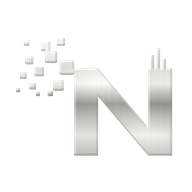
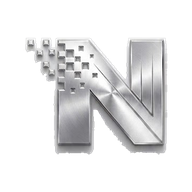
Add files via upload
v3 - fixed color pallette, logo, words

diff --git a/page.tsx b/page.tsx
@@ -1,0 +1,237 @@
+import Link from "next/link";
+import { ArrowRight, ArrowUpRight, Quote } from "lucide-react";
+import Marquee from "./components/Marquee";
+import Reveal from "./components/Reveal";
+import SectionHeading from "./components/SectionHeading";
+import { services, projects, processSteps, stats, capabilities } from "./lib/data";
+
+export default function HomePage() {
+  return (
+    <>
+      {/* ---------------- HERO ---------------- */}
+      <section className="relative overflow-hidden">
+        <div
+          aria-hidden
+          className="pointer-events-none absolute left-1/2 top-[-30%] h-[720px] w-[900px] -translate-x-1/2 rounded-full bg-electric-500/10 blur-[140px]"
+        />
+        <div className="shell relative py-28 md:py-36">
+          <Reveal>
+            <div className="eyebrow text-silver-200">
+              <span className="h-px w-9 bg-electric-500" />
+              Chicago · Built for the Automotive Trade
+            </div>
+          </Reveal>
+
+          <Reveal delay={0.08}>
+            <h1 className="mt-7 max-w-[18ch] text-display-xl font-bold leading-[1.02] tracking-tight text-gradient md:max-w-[22ch]">
+              Growth Systems for your Automotive business
+            </h1>
+          </Reveal>
+
+          <Reveal delay={0.16}>
+            <p className="mt-8 max-w-[54ch] text-[17px] leading-relaxed text-silver-400">
+              We build the websites, AI assistants, and follow-up systems that make sure your
+              automotive business never loses another customer.
+            </p>
+          </Reveal>
+
+          <Reveal delay={0.24}>
+            <div className="mt-11 flex flex-wrap gap-4">
+              <Link href="/book" className="btn-primary">
+                Book a call <ArrowRight size={15} />
+              </Link>
+              <Link href="/services" className="btn-secondary">
+                View services
+              </Link>
+            </div>
+          </Reveal>
+        </div>
+      </section>
+
+      <Marquee items={capabilities} />
+
+      {/* ---------------- STATS ---------------- */}
+      <section className="shell py-24 md:py-28">
+        <Reveal>
+          <SectionHeading
+            eyebrow="What we do"
+            title="Businesses don't have a marketing problem, they have a response problem."
+            lede="A missed call is a customer dialing the next shop on the list. We build the systems that answer, capture, and follow up automatically — so you keep the work you've already earned."
+          />
+        </Reveal>
+
+        <div className="mt-16 grid grid-cols-2 gap-px border border-white/10 bg-white/10 lg:grid-cols-4">
+          {stats.map((stat, i) => (
+            <Reveal key={stat.label} delay={i * 0.06}>
+              <div className="h-full bg-navy-900 p-8">
+                <div className="text-[36px] font-bold leading-none tracking-tight text-white">
+                  {stat.value}
+                </div>
+                <div className="mt-3 text-[12px] uppercase tracking-[0.16em] text-silver-500">
+                  {stat.label}
+                </div>
+              </div>
+            </Reveal>
+          ))}
+        </div>
+      </section>
+
+      {/* ---------------- SERVICES SUMMARY ---------------- */}
+      <section className="border-y border-white/10 bg-navy-950/50 py-24 md:py-28">
+        <div className="shell">
+          <Reveal>
+            <SectionHeading
+              eyebrow="Services"
+              title="We capture every opportunity"
+              link={{ href: "/services", label: "View all services" }}
+            />
+          </Reveal>
+
+          <div className="mt-14 grid gap-px bg-white/10 sm:grid-cols-2 lg:grid-cols-3">
+            {services.slice(0, 6).map((service, i) => {
+              const Icon = service.icon;
+              return (
+                <Reveal key={service.slug} delay={i * 0.05}>
+                  <Link
+                    href={`/services/${service.slug}`}
+                    className="group flex h-full flex-col bg-navy-900 p-8 transition-colors hover:bg-navy-800"
+                  >
+                    <Icon size={22} className="text-electric-500" />
+                    <h3 className="mt-6 text-[19px] font-semibold text-white">{service.title}</h3>
+                    <p className="mt-3 flex-1 text-[14.5px] leading-relaxed text-silver-500">
+                      {service.short}
+                    </p>
+                    <span className="mt-6 inline-flex items-center gap-2 text-[12px] uppercase tracking-[0.14em] text-silver-400 transition-colors group-hover:text-electric-400">
+                      Learn more <ArrowUpRight size={14} />
+                    </span>
+                  </Link>
+                </Reveal>
+              );
+            })}
+          </div>
+        </div>
+      </section>
+
+      {/* ---------------- PROCESS ---------------- */}
+      <section className="shell py-24 md:py-28">
+        <Reveal>
+          <SectionHeading
+            eyebrow="The approach"
+            title="Audit first. Build second."
+            lede="Every engagement starts with a free audit — we pinpoint exactly where your shop is losing customers before we build a thing. No guesswork, no wasted spend."
+          />
+        </Reveal>
+
+        <div className="mt-14 grid gap-px border border-white/10 bg-white/10 md:grid-cols-2 lg:grid-cols-4">
+          {processSteps.map((step, i) => (
+            <Reveal key={step.n} delay={i * 0.06}>
+              <div className="h-full bg-navy-900 p-8">
+                <div className="text-[12px] tracking-[0.2em] text-electric-500">{step.n}</div>
+                <h3 className="mt-5 text-[18px] font-semibold text-white">{step.title}</h3>
+                <p className="mt-3 text-[14px] leading-relaxed text-silver-500">{step.body}</p>
+              </div>
+            </Reveal>
+          ))}
+        </div>
+      </section>
+
+      {/* ---------------- SELECTED WORK ---------------- */}
+      <section className="border-y border-white/10 bg-navy-950/50 py-24 md:py-28">
+        <div className="shell">
+          <Reveal>
+            <SectionHeading
+              eyebrow="Selected work"
+              title="Concepts, live and working"
+              lede="Working systems on real automotive businesses, built before we ever pitch."
+              link={{ href: "/work", label: "View all work" }}
+            />
+          </Reveal>
+
+          <div className="mt-14 grid gap-6 md:grid-cols-2 lg:grid-cols-3">
+            {projects.map((project, i) => (
+              <Reveal key={project.slug} delay={i * 0.07}>
+                <Link
+                  href={`/work/${project.slug}`}
+                  className="card card-hover group flex h-full flex-col p-8"
+                >
+                  <div className="flex items-center justify-between text-[11px] uppercase tracking-[0.18em] text-silver-500">
+                    <span>{project.industry}</span>
+                    <span className="text-electric-500">{project.status}</span>
+                  </div>
+                  <h3 className="mt-4 text-[23px] font-semibold tracking-tight text-white">
+                    {project.client}
+                  </h3>
+                  <p className="mt-3 flex-1 text-[14.5px] leading-relaxed text-silver-500">
+                    {project.summary}
+                  </p>
+                  <div className="mt-6 flex flex-wrap gap-2">
+                    {project.tags.map((tag) => (
+                      <span
+                        key={tag}
+                        className="border border-white/10 px-3 py-1.5 text-[11px] tracking-wide text-silver-500"
+                      >
+                        {tag}
+                      </span>
+                    ))}
+                  </div>
+                </Link>
+              </Reveal>
+            ))}
+          </div>
+        </div>
+      </section>
+
+      {/* ---------------- TESTIMONIAL ---------------- */}
+      <section className="shell py-24 md:py-28">
+        <Reveal>
+          <div className="eyebrow">
+            <span className="h-px w-8 bg-electric-500" />
+            What clients say
+          </div>
+          <div className="mt-10 border-l border-electric-500/50 pl-8 md:pl-10">
+            <Quote size={28} className="mb-6 text-electric-500/60" />
+            <blockquote className="max-w-[24ch] text-display-sm font-medium leading-tight text-white md:max-w-[30ch]">
+              Your first real client quote goes here — one sentence about what changed for their
+              business after the build.
+            </blockquote>
+            <div className="mt-8 text-[13.5px] text-silver-500">
+              <strong className="block font-semibold text-silver-300">Client Name</strong>
+              Owner, Business Name
+            </div>
+          </div>
+          <p className="mt-8 max-w-[70ch] border border-dashed border-white/15 p-4 text-[12.5px] leading-relaxed text-silver-500">
+            Placeholder — replace once your first client is live. Leaving this generic is better than
+            inventing a quote; a fabricated testimonial is the fastest way to lose a deal when someone
+            follows up on it.
+          </p>
+        </Reveal>
+      </section>
+
+      {/* ---------------- CTA ---------------- */}
+      <section className="border-t border-white/10 bg-navy-950">
+        <div className="shell py-28 text-center md:py-32">
+          <Reveal>
+            <div className="eyebrow justify-center">Start the conversation</div>
+            <h2 className="mx-auto mt-6 max-w-[16ch] text-display-lg font-bold text-white">
+              Let&apos;s build the future.
+            </h2>
+            <p className="mx-auto mt-6 max-w-[56ch] text-[16px] leading-relaxed text-silver-500">
+              We&apos;ll walk through your setup, show you where customers are slipping away, and give
+              you no-nonsense feedback. Free, no-pressure audit.
+            </p>
+            <div className="mt-10 flex flex-wrap justify-center gap-4">
+              <Link href="/book" className="btn-primary">
+                Book a call <ArrowRight size={15} />
+              </Link>
+              <Link href="/pricing" className="btn-secondary">
+                See pricing
+              </Link>
+            </div>
+          </Reveal>
+        </div>
+      </section>
+
+      <Marquee items={capabilities} reverse />
+    </>
+  );
+}

diff --git a/layout.tsx b/layout.tsx
@@ -1,0 +1,52 @@
+import type { Metadata } from "next";
+import { Space_Grotesk } from "next/font/google";
+import "./globals.css";
+import Navbar from "./components/Navbar";
+import Footer from "./components/Footer";
+import PageWrapper from "./components/PageWrapper";
+import ChatWidget from "./components/ChatWidget";
+
+const spaceGrotesk = Space_Grotesk({
+  subsets: ["latin"],
+  variable: "--font-space-grotesk",
+  display: "swap",
+});
+
+export const metadata: Metadata = {
+  metadataBase: new URL("https://novussolutions.co"),
+  title: {
+    default: "Novus Solutions | AI Automation & Growth Systems for Automotive Businesses",
+    template: "%s | Novus Solutions",
+  },
+  description:
+    "Novus builds websites, AI chatbots, phone assistants, and follow-up systems for local Chicago businesses. Never miss another customer. Book a call.",
+  keywords: [
+    "AI automation Chicago",
+    "automotive business AI",
+    "AI chatbot",
+    "AI phone assistant",
+    "website development Chicago",
+  ],
+  openGraph: {
+    title: "Novus Solutions | AI Automation for Automotive Businesses",
+    description:
+      "Websites, AI assistants, and follow-up systems for Chicago automotive business. Book a call.",
+    url: "https://novussolutions.co",
+    siteName: "Novus Solutions",
+    type: "website",
+  },
+  robots: { index: true, follow: true },
+};
+
+export default function RootLayout({ children }: { children: React.ReactNode }) {
+  return (
+    <html lang="en" className={spaceGrotesk.variable}>
+      <body className="bg-navy-900 font-sans">
+        <Navbar />
+        <PageWrapper>{children}</PageWrapper>
+        <Footer />
+        <ChatWidget />
+      </body>
+    </html>
+  );
+}

diff --git a/globals.css b/globals.css
@@ -1,0 +1,69 @@
+@tailwind base;
+@tailwind components;
+@tailwind utilities;
+
+@layer base {
+  html {
+    scroll-behavior: smooth;
+  }
+  body {
+    @apply bg-navy-900 text-silver-300 antialiased;
+  }
+  ::selection {
+    @apply bg-electric-500 text-white;
+  }
+}
+
+@layer components {
+  .shell {
+    @apply mx-auto w-full max-w-shell px-6 md:px-8;
+  }
+
+  .eyebrow {
+    @apply flex items-center gap-3 text-[11px] uppercase tracking-[0.28em] text-silver-500;
+  }
+
+  .rule {
+    @apply border-t border-white/10;
+  }
+
+  .card {
+    @apply border border-white/10 bg-navy-800/60 transition-colors duration-300;
+  }
+
+  .card-hover {
+    @apply hover:border-electric-500/40 hover:bg-navy-800;
+  }
+
+  .btn {
+    @apply inline-flex items-center justify-center gap-2 px-7 py-3.5 text-[12px] uppercase tracking-[0.14em] transition-all duration-200;
+  }
+
+  .btn-primary {
+    @apply btn bg-electric-500 font-semibold text-white hover:bg-electric-600;
+  }
+
+  .btn-secondary {
+    @apply btn border border-white/20 text-silver-200 hover:border-silver-300 hover:text-white;
+  }
+
+  .link-underline {
+    @apply relative inline-flex items-center gap-2 text-[12px] uppercase tracking-[0.14em] text-silver-300 transition-colors hover:text-white;
+  }
+}
+
+@layer utilities {
+  .text-gradient {
+    @apply bg-gradient-to-br from-white via-silver-200 to-silver-500 bg-clip-text text-transparent;
+  }
+  .glass {
+    @apply border-b border-white/10 bg-navy-900/70 backdrop-blur-xl;
+  }
+  .no-scrollbar::-webkit-scrollbar {
+    display: none;
+  }
+  .no-scrollbar {
+    -ms-overflow-style: none;
+    scrollbar-width: none;
+  }
+}
